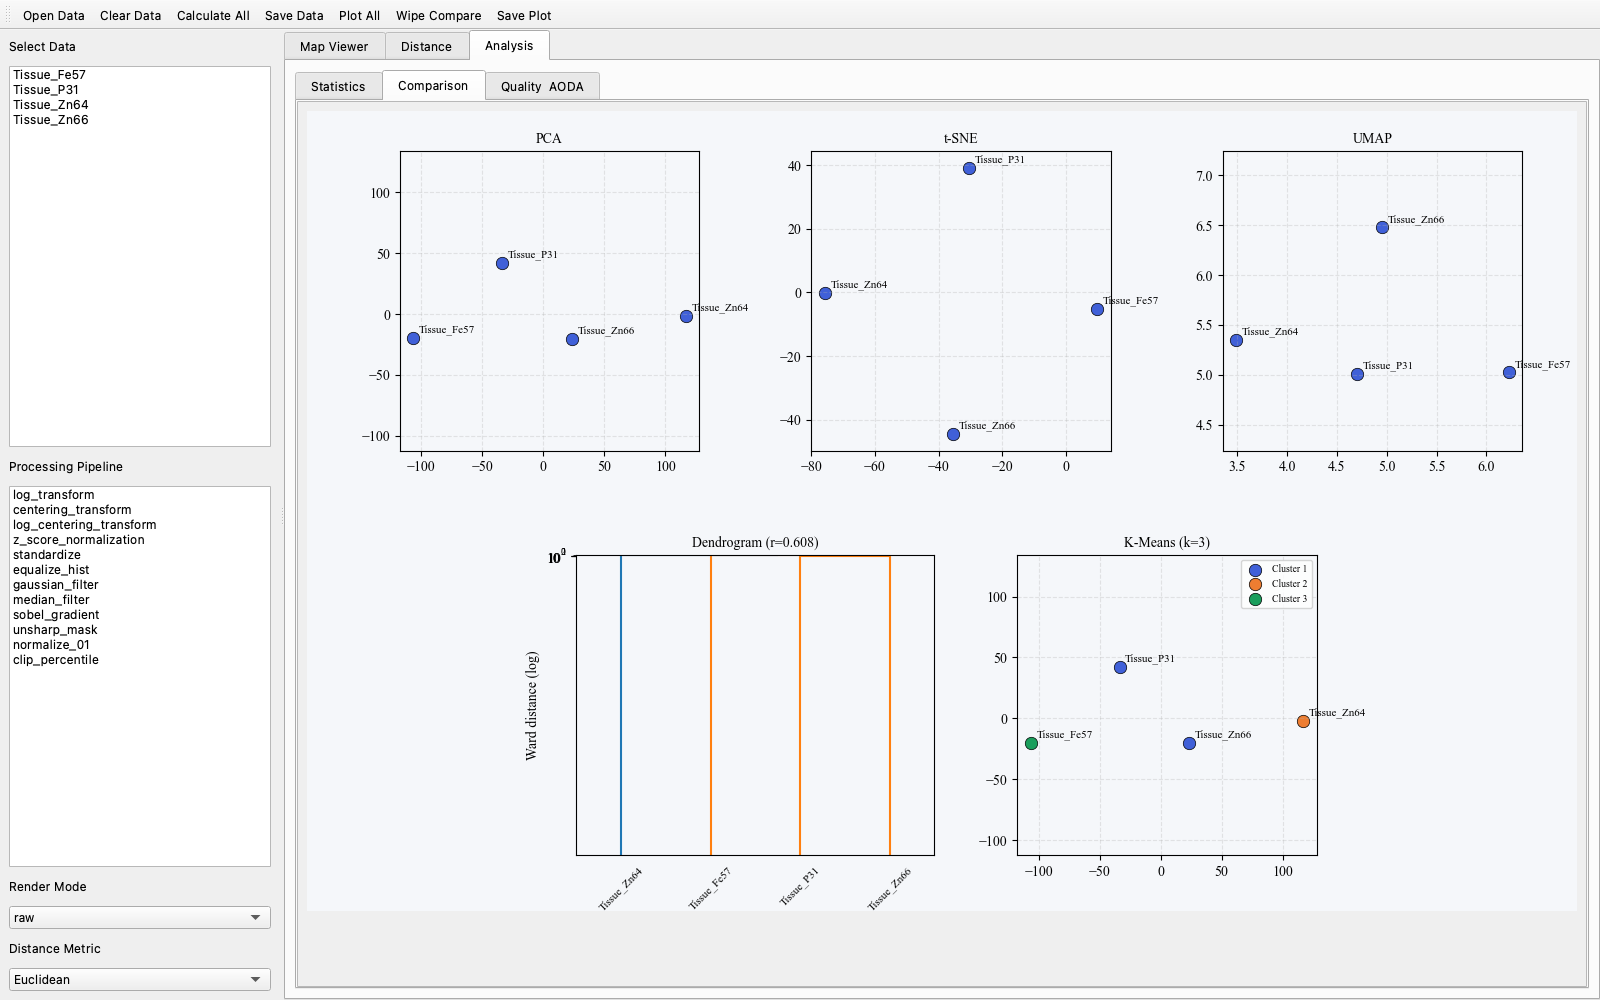
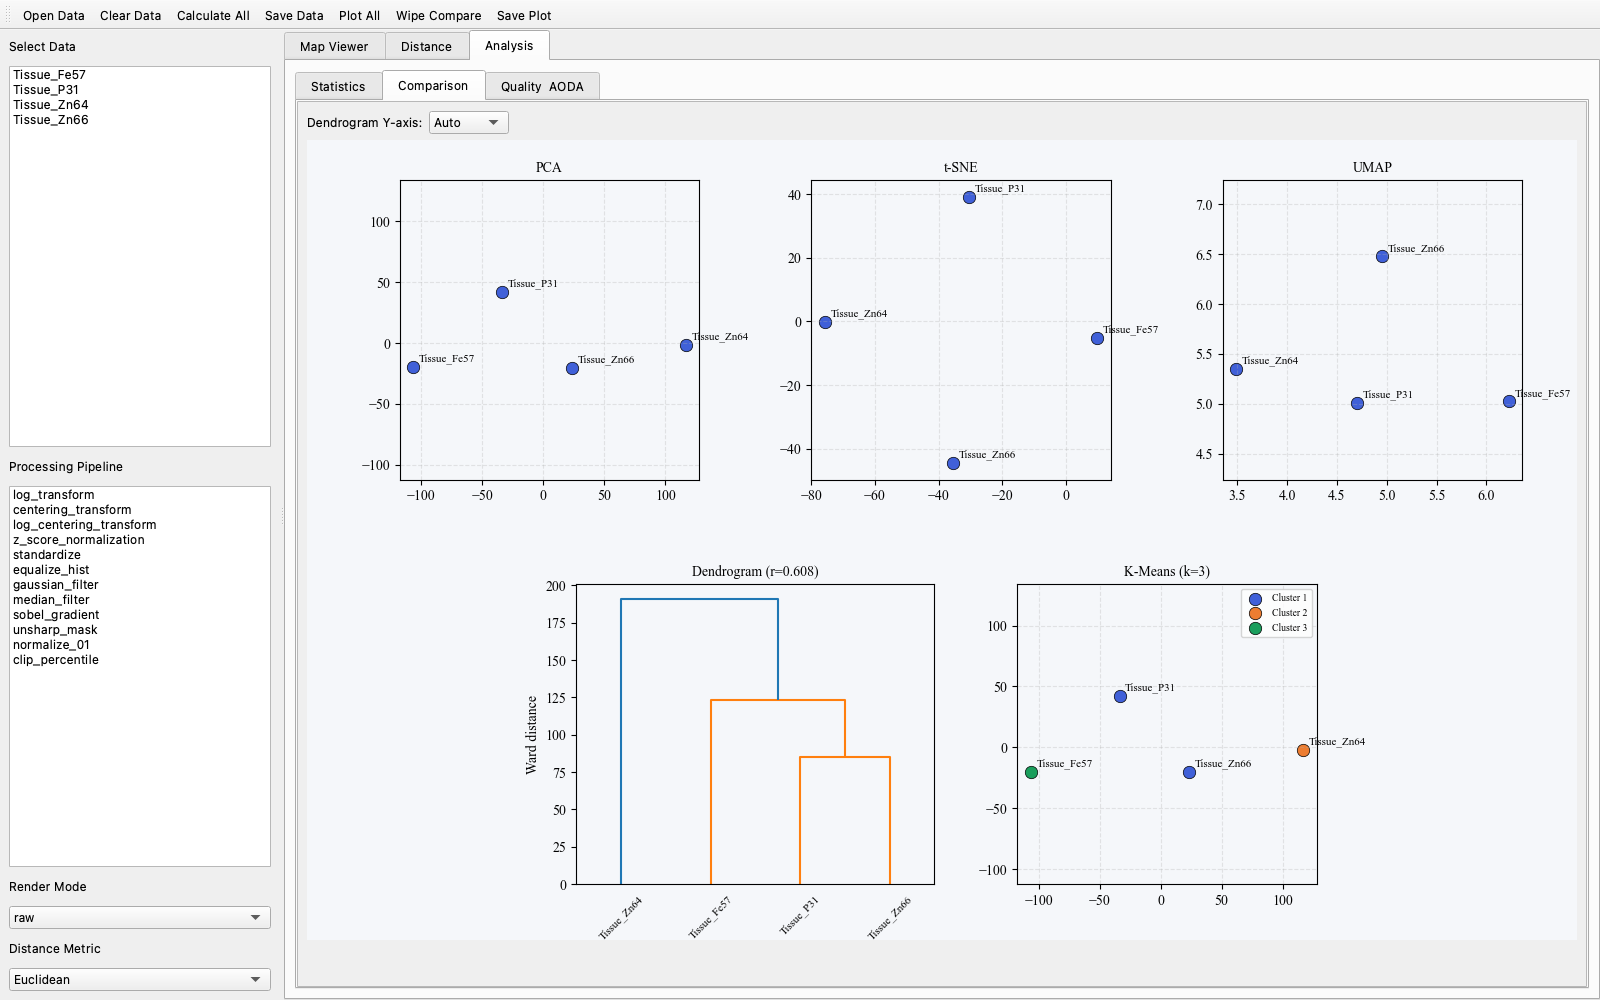
v1.3.4: dendrogram Y-axis mode selector (Auto/Linear/Log/Blended)
- Dropdown in Comparison pane for user to pick Y-axis scaling
- Auto: ratio>100 -> Log, >10 -> Blended(sqrt), else Linear
- Blended: sqrt transform (gentler compression than log)

diff --git a/cpsvisualizer/generate_figures.py b/cpsvisualizer/generate_figures.py
@@ -248,12 +248,18 @@ def fig10_pca_comparison(data_dict, elements):
     dfs = [data_dict[e] for e in elements]
     pca_r = compute_pca_embedding(dfs, elements)
     bench = compute_comprehensive_benchmark(dfs, elements, n_jobs=1)
-    best_pipe = '+'.join(bench['aoda'].iloc[0]['pipeline'].split('+'))
-    best_met = bench['aoda'].iloc[0]['metric']
+
+    # Exclude degenerate Boolean set-based metrics that collapse on positive-only data
+    BOOLEAN_DEGENERATE = {'Jaccard', 'Dice', 'Kulsinski', 'Rogers_Tanimoto',
+                          'Russell_Rao', 'Sokal_Michener', 'Sokal_Sneath', 'Yule'}
+    aoda_valid = bench['aoda'].loc[~bench['aoda']['metric'].isin(BOOLEAN_DEGENERATE)]
+    best_row = aoda_valid.iloc[0]
+    best_pipe = '+'.join(best_row['pipeline'].split('+'))
+    best_met = best_row['metric']
+    best_dps = best_row['dps']
 
     from cpsvisualizer.core import apply_transforms, DISTANCE_FUNCTIONS
-    from cpsvisualizer.adaptive import PIPELINE_COMBOS
-    pipe_names = bench['aoda'].iloc[0]['pipeline'].split('+')
+    pipe_names = best_row['pipeline'].split('+')
     met_func = {f.__name__: f for f in DISTANCE_FUNCTIONS}[best_met]
     transformed = [pd.DataFrame(apply_transforms(df.values.copy(), pipe_names)) for df in dfs]
     dist_mat = compute_pairwise_matrix(transformed, elements, met_func)
@@ -272,7 +278,7 @@ def fig10_pca_comparison(data_dict, elements):
     ax1.set_ylabel(f'PC2 ({ev[1]*100:.1f}% variance)')
     ax1.set_title('PCA: Element Distribution Patterns', fontweight='bold')
     ax1.grid(True, alpha=0.2, linestyle='--')
-    ax1.set_aspect('equal')
+    ax1.set_box_aspect(1)
 
     # Right: AODA optimal distance matrix heatmap
     im2 = ax2.imshow(dist_mat.values, cmap='YlOrRd', aspect='equal')
@@ -283,7 +289,7 @@ def fig10_pca_comparison(data_dict, elements):
     for i in range(len(elements)):
         for j in range(len(elements)):
             ax2.text(j, i, f'{dist_mat.iloc[i, j]:.3f}', ha='center', va='center', fontsize=8)
-    ax2.set_title(f'AODA Optimal: {best_pipe}+{best_met}\nDPS = {bench["aoda"].iloc[0]["dps"]:.3f}',
+    ax2.set_title(f'AODA Optimal (non-degenerate): {best_pipe}+{best_met}\nDPS = {best_dps:.3f}',
                   fontweight='bold')
     plt.colorbar(im2, ax=ax2, shrink=0.8)
 
@@ -315,7 +321,7 @@ def fig11_tsne_comparison(data_dict, elements):
     ax1.set_ylabel('t-SNE Component 2')
     ax1.set_title(f't-SNE Embedding (KL={tsne_r.get("kl_divergence", 0):.3f})', fontweight='bold')
     ax1.grid(True, alpha=0.2, linestyle='--')
-    ax1.set_aspect('equal')
+    ax1.set_box_aspect(1)
 
     # DPS comparison mini bar
     methods = ['AODA', 't-SNE', 'PCA', 'UMAP', 'Baseline']
@@ -363,7 +369,7 @@ def fig12_umap_comparison(data_dict, elements):
     ax1.set_ylabel('UMAP Component 2')
     ax1.set_title('UMAP: Element Distribution Patterns', fontweight='bold')
     ax1.grid(True, alpha=0.2, linestyle='--')
-    ax1.set_aspect('equal')
+    ax1.set_box_aspect(1)
 
     # Top-5 AODA pipelines
     top5 = aoda.head(5)

diff --git a/cpsvisualizer/src/cpsvisualizer/app.py b/cpsvisualizer/src/cpsvisualizer/app.py
@@ -547,6 +547,18 @@ class CPSVisualizer(QMainWindow):
     def _build_comparison_pane(self, parent):
         sc, inner = self._scroll_pane()
         v = QVBoxLayout(inner)
+
+        # Dendrogram Y-axis mode selector
+        mode_bar = QHBoxLayout()
+        mode_bar.addWidget(QLabel('Dendrogram Y-axis:'))
+        self._dendro_mode = QComboBox()
+        self._dendro_mode.addItems(['Auto', 'Linear', 'Log', 'Blended'])
+        self._dendro_mode.currentTextChanged.connect(
+            lambda _: self._on_analysis_tab_changed(1))
+        mode_bar.addWidget(self._dendro_mode)
+        mode_bar.addStretch(1)
+        v.addLayout(mode_bar)
+
         self._cmp_canvas = FigureCanvas(Figure(figsize=(12, 8), dpi=self.dpi))
         self._cmp_canvas.setSizePolicy(QSizePolicy.Expanding, QSizePolicy.Expanding)
         self._cmp_canvas.setMinimumHeight(600)
@@ -1125,10 +1137,29 @@ class CPSVisualizer(QMainWindow):
             from scipy.cluster.hierarchy import dendrogram
             hier = compute_hierarchical_clustering(dfs, names)
             if hier.get('linkage') is not None:
-                dendrogram(hier['linkage'], labels=names, ax=ax_dendro,
+                Z = hier['linkage']
+                dendrogram(Z, labels=names, ax=ax_dendro,
                            leaf_rotation=45, leaf_font_size=8)
-                ax_dendro.set_yscale('log')
-                ax_dendro.set_ylabel('Ward distance (log)')
+                # --- Y-axis scaling ---
+                mode = 'Auto'
+                if hasattr(self, '_dendro_mode'):
+                    mode = self._dendro_mode.currentText()
+                dists = Z[:, 2]
+                dmin, dmax = float(dists.min()), float(dists.max())
+                ratio = dmax / dmin if dmin > 0 else float('inf')
+                if mode == 'Auto':
+                    mode = 'Log' if ratio > 100 else ('Blended' if ratio > 10 else 'Linear')
+                if mode == 'Log' and dmin > 0:
+                    ax_dendro.set_yscale('log')
+                    ax_dendro.set_ylabel('Ward distance (log)')
+                elif mode == 'Blended' and dmin > 0:
+                    # square-root transform: gentler than log, compresses
+                    # large distances while keeping small ones visible
+                    ax_dendro.set_yscale('function',
+                                         functions=(np.sqrt, lambda y: y ** 2))
+                    ax_dendro.set_ylabel('Ward distance (sqrt)')
+                else:
+                    ax_dendro.set_ylabel('Ward distance')
                 ax_dendro.set_title(
                     f"Dendrogram (r={hier['cophenetic_correlation']:.3f})",
                     fontsize=10)

diff --git a/cpsvisualizer/src/setup.py b/cpsvisualizer/src/setup.py
@@ -15,7 +15,7 @@ except Exception:
 
 setup(
     name='cpsvisualizer',
-    version='1.3.3',
+    version='1.3.4',
     description='CPS-Visualizer: Visualization, similarity measurement, and statistical analysis of LA-ICP-MS surface scan data.',
     long_description=README,
     long_description_content_type='text/markdown',
